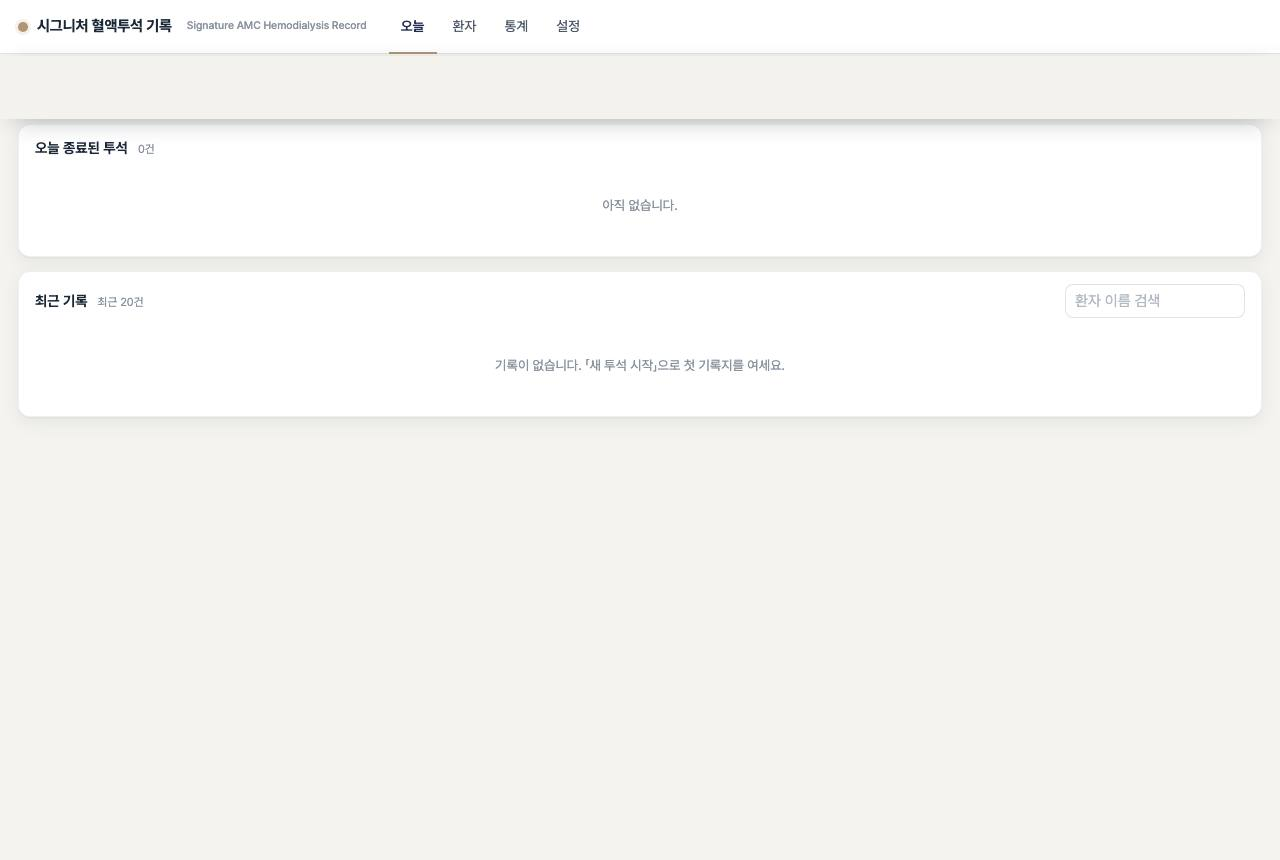
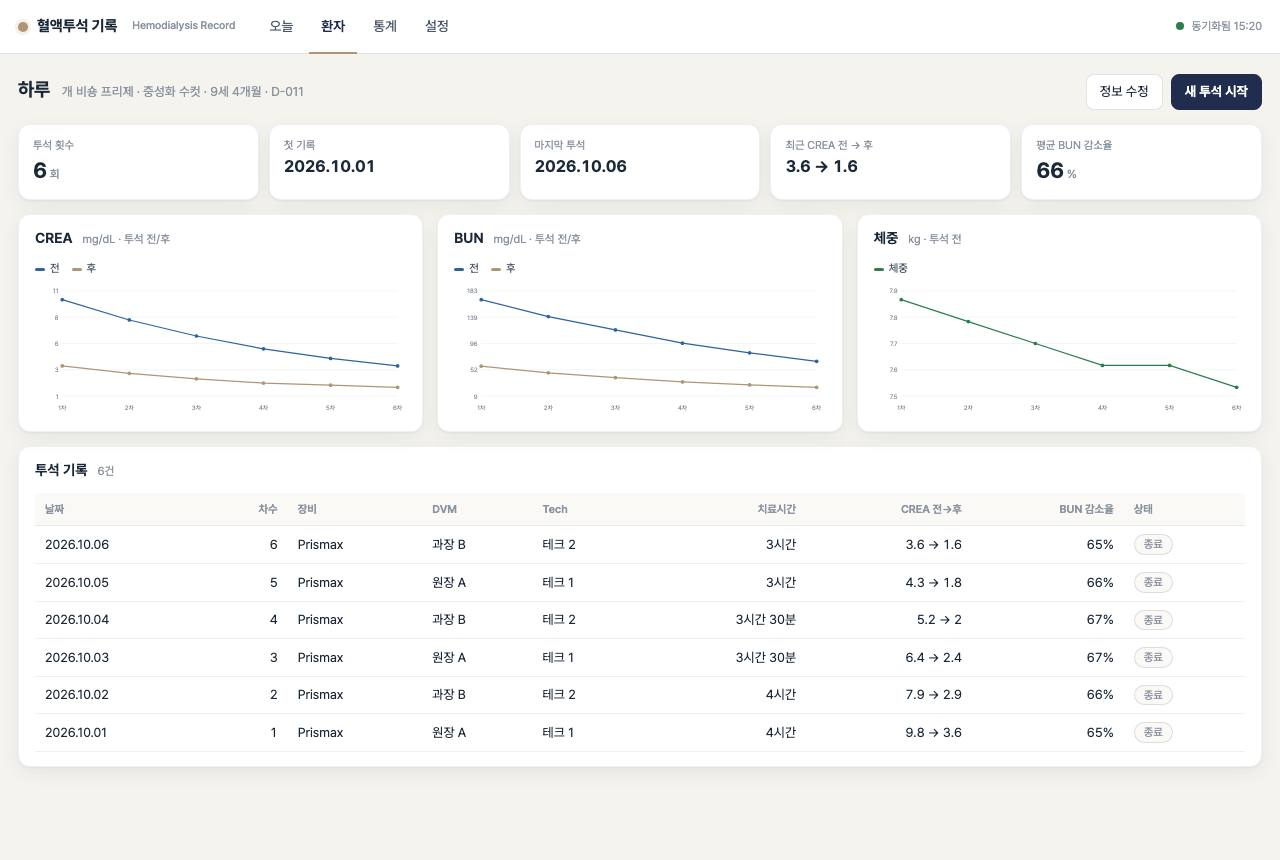
AI 교육 페이지: 프로그램 화면을 가상 데이터로 채운 실제 사용 모습으로 교체(18장)

diff --git a/public/ai-class.html b/public/ai-class.html
@@ -332,7 +332,7 @@ footer{padding-block:32px;font-size:.82rem;color:var(--ink-3)}
       <li>Claude · Claude Code</li><li>ChatGPT</li><li>Gemini</li><li>NotebookLM</li><li>Gamma</li><li>Genspark</li><li>Plaud</li>
     </ul>
     <div class="prog-list" id="plist"></div>
-    <p class="note">이름을 누르면 전과 후가 어떻게 달라졌는지, 실제 화면과 함께 볼 수 있습니다. 화면은 환자·직원 정보가 없는 빈 상태로 찍었고, 개인정보가 담긴 프로그램은 교육 당일 시연으로 보여 드립니다.</p>
+    <p class="note">이름을 누르면 전과 후가 어떻게 달라졌는지, 실제 화면과 함께 볼 수 있습니다. 화면 속 환자·직원·병원 이름과 수치는 모두 실제 사용 모습을 보여 드리기 위한 가상 데이터입니다.</p>
     <dialog id="pdlg" class="pdlg"><div class="pdlg-in"><div class="pdlg-h"><div><b id="pdlgT"></b><div id="pdlgD" class="pdlg-d"></div></div><button type="button" id="pdlgX" aria-label="닫기">닫기</button></div><img id="pdlgI" alt="" hidden><p id="pdlgN" class="pdlg-no" hidden>화면은 교육 당일 시연으로 보여 드립니다.</p></div></dialog>
   </div>
 </section>
@@ -517,7 +517,7 @@ footer{padding-block:32px;font-size:.82rem;color:var(--ink-3)}
 
 <script>
 (function(){
-  var G=[["진료", [{"n": "진료 녹음 차트", "t": "녹음을 고르면 SOAP 차트와 보호자 카톡 문안이 나옵니다", "i": "", "b": "", "a": "Plaud로 녹음한 진료를 SOAP 차트와 보호자에게 보낼 카카오톡 문안으로 정리합니다.", "p": ["녹음 전사문을 근거로 차트를 쓰므로 기억에 의존하지 않습니다", "보호자 안내가 매번 같은 형식으로 나갑니다"]}, {"n": "보호자 사전문진", "t": "진료실에 들어가기 전에 이미 환자를 압니다", "i": "/ai-class/shots/intake.jpg", "b": "", "a": "예약 안내 카톡에 링크 한 줄을 붙이면, 보호자가 전날 적어 둔 내용을 다음 날 진료 전에 읽습니다.", "p": ["진료 시간을 질문보다 설명과 상담에 쓸 수 있습니다", "보호자는 자기 답도 다시 볼 수 없고, 기기에도 남기지 않도록 만들었습니다", "병원 태블릿을 여러 보호자가 돌려 써도 앞사람 내용이 보이지 않습니다"]}, {"n": "마취 기록지", "t": "그래프는 저절로, 이상 수치는 붉게", "i": "/ai-class/shots/anes.jpg", "b": "종이 기록지에 활력징후를 적고 그래프를 손으로 그렸습니다.", "a": "휴대폰과 수술방 PC에서 같은 기록지를 함께 적고, 종이와 같은 기호로 그래프가 자동으로 그려집니다.", "p": ["MAP·SpO₂·ETCO₂·체온이 기준을 벗어나면 붉게 표시되고, 기록 간격을 넘기면 알려 줍니다", "용량(mg/kg)을 넣으면 투약량(mL)이 자동으로 계산됩니다", "끝나면 기록지를 사진 한 장으로 저장해 차트에 붙입니다"]}, {"n": "혈액투석 기록지", "t": "종이 기록지 32개 항목과 수분 수지를 실시간으로", "i": "/ai-class/shots/hd.jpg", "b": "종이 기록지에 시간대별 수치를 적었습니다.", "a": "종이 기록지의 32개 항목을 순서 그대로 옮긴 앱에서 여러 기기가 함께 기록합니다.", "p": ["이전 투석 값이 자동으로 채워지고 BUN·CREA 감소율이 계산됩니다", "들어간 수액과 기계가 뺀 양을 합쳐 수분 수지를 실시간으로 보여 줍니다", "다른 기기에서 고친 내용이 기록지 화면에서는 5초 안에 반영되고, 수의사 오더도 기록지 안에서 냅니다"]}, {"n": "수의 임상 계산기 29종", "t": "체중 한 번 입력으로 29가지 계산", "i": "/ai-class/shots/calc.jpg", "b": "", "a": "종과 체중을 한 번 넣으면 수액, 전해질, 약물, 수혈, 투석 등 29종 가운데 체중이 필요한 계산에 모두 반영됩니다.", "p": ["응급 상황에서 계산 실수를 줄입니다", "인터넷이 끊겨도 열립니다", "새로 온 수의사도 같은 기준으로 계산합니다"]}, {"n": "건강검진 결과서", "t": "차트와 사진을 올리면 결과서 초안이 나옵니다", "i": "", "b": "", "a": "진료차트 PDF와 엑스레이·초음파·치과 사진을 올리면 보호자용 결과서 초안을 만들고, 화면에서 고친 뒤 PDF로 뽑습니다.", "p": ["결과서를 처음부터 쓰지 않고 초안을 고치는 일로 바뀝니다", "보호자가 읽기 쉬운 같은 형식으로 나갑니다"]}]], ["운영", [{"n": "마약류 관리", "t": "NIMS 보고를 빠뜨리지 않습니다", "i": "/ai-class/shots/narcotics.jpg", "b": "카카오톡 단체방과 수기 장부로 관리했습니다.", "a": "사용 기록을 큰 버튼 몇 번으로 남기면(목표 30초) NIMS 보고 대기함이 자동으로 만들어집니다.", "p": ["보고를 완료할 때까지 대기함에서 사라지지 않고, 3일이 지나면 경고합니다", "한 병을 여러 환자가 나눠 쓴 잔량이 자동으로 계산됩니다", "누가 언제 무엇을 했는지 감사 기록이 남습니다"]}, {"n": "리셉 알림 보드", "t": "접수와 진료실 사이의 전달판", "i": "/ai-class/shots/recep.jpg", "b": "", "a": "1층 접수와 진료실이 내복약 요청과 전달 사항을 실시간 보드로 주고받습니다.", "p": ["새 알림을 소리로 읽어 줘 화면을 보고 있지 않아도 압니다", "처리한 항목은 체크하면 완료 구역으로 내려가 남은 일만 위에 보입니다"]}, {"n": "수혈 혈액 재고", "t": "유효기한 임박을 아침마다 알려 줍니다", "i": "/ai-class/shots/blood.jpg", "b": "종이와 구글 시트로 혈액 팩을 관리했습니다.", "a": "종·성분·혈액형별로 지금 쓸 수 있는 팩이 한 화면에 보입니다.", "p": ["채혈일만 넣으면 성분별 유효기한이 자동으로 계산됩니다", "임박하거나 지난 팩이 있으면 매일 아침 7시 원장 카카오톡으로 알려 줍니다", "어떤 팩을 어느 환자에게 썼는지 기록이 남습니다"]}, {"n": "테크니션 근무표", "t": "매달 손으로 짜던 근무표를 자동으로", "i": "/ai-class/shots/techshift.jpg", "b": "부장이 매달 구글 시트로 근무표를 손으로 짰습니다.", "a": "휴무 규칙으로 쉬는 날을 정하고, 남은 출근자를 오전·오후로 자동 배분합니다.", "p": ["규칙 위반을 자동으로 점검합니다", "연차·월차·병가 기록이 함께 관리됩니다", "여러 기기에서 같이 고쳐도 자동으로 합쳐집니다"]}, {"n": "의뢰환자 관리", "t": "의뢰 병원별 현황과 회신을 한눈에", "i": "", "b": "", "a": "의뢰 환자와 의뢰 병원, 회신 여부를 한곳에서 관리합니다.", "p": ["어느 병원에서 얼마나 의뢰가 오는지 보입니다", "회신을 놓친 환자를 바로 찾습니다"]}, {"n": "미용실 예약", "t": "어느 기기에서나 같은 예약장부", "i": "/ai-class/shots/grooming.jpg", "b": "종이 예약 차트에 적었습니다.", "a": "어느 컴퓨터·태블릿에서 열어도 같은 예약장부가 실시간으로 공유됩니다.", "p": ["이름과 연락처로 예약을 찾습니다", "하루 차트를 바로 인쇄합니다"]}, {"n": "스튜디오 예약", "t": "겹치는 예약은 저장되지 않습니다", "i": "/ai-class/shots/studio.jpg", "b": "", "a": "상주 직원이 없는 별도 공간을 예약제로 운영합니다.", "p": ["같은 시간에 예약이 겹치면 저장이 잠기고 누구와 겹치는지 알려 줍니다"]}]], ["경영·학술", [{"n": "원장실 경영대장", "t": "공동원장이 같은 숫자를 봅니다", "i": "", "b": "", "a": "매출, 객단가, 내원, 손익을 공동원장들이 한 화면에서 봅니다.", "p": ["휴대폰에 설치해 인터넷이 끊겨도 엽니다"]}, {"n": "인재관리", "t": "누구를 언제 챙길지 먼저 알려 줍니다", "i": "/ai-class/shots/people.jpg", "b": "", "a": "직원의 계약, 연봉, 원온원 면담, 수시 기록을 한곳에 모읍니다.", "p": ["면담이 밀린 사람, 계약 만료가 가까운 사람, 연봉을 오래 그대로 둔 사람을 먼저 보여 줍니다", "면담 전에 지난 면담 요약과 남은 약속, 질문 세 개를 꺼내 줍니다"]}, {"n": "수의학 데일리 브리핑", "t": "매일 새벽 관심 분야 논문이 카톡으로", "i": "/ai-class/shots/briefing.jpg", "b": "", "a": "매일 새벽 PubMed에서 신규 논문을 찾아 요약하고 카카오톡으로 보냅니다.", "p": ["인스타그램 카드와 네이버 블로그 초안까지 함께 만들어집니다", "논문 인용과 수치는 게시 전에 다시 확인합니다"]}, {"n": "논문 번역기", "t": "한국어로 쓰인 논문처럼 읽습니다", "i": "/ai-class/shots/papers.jpg", "b": "", "a": "영어 논문 PDF를 열면 원문 옆에 같은 지면의 한국어 논문이 나란히 열립니다.", "p": ["그림·표·배치는 원본 그대로 두고 글만 바꿉니다", "시간이 없을 때는 핵심 요약, 주요 수치, 임상 적용 포인트만 정리합니다"]}, {"n": "한국동물병원협회 회원 앱", "t": "회원 약 4,000명을 위해 만든 협회 앱", "i": "", "b": "", "a": "협회 홈페이지 계정으로 로그인해 소식, 교육 일정, 양식, 계산기를 휴대폰에서 봅니다.", "p": ["교육 신청 마감 3일 전부터 알림이 갑니다", "협회 양식 265종을 검색해 내려받습니다"]}, {"n": "AAHA CON 참관 수첩", "t": "해외 학회를 한글로 준비합니다", "i": "/ai-class/shots/aaha.jpg", "b": "", "a": "학회 세션 118건을 한글 제목과 요약으로 정리하고 시간대별로 추천합니다.", "p": ["현장에서 적은 메모로 운영위원회 일일 보고문을 만듭니다"]}]], ["마케팅·개인", [{"n": "이태호 수의사 홈페이지", "t": "직접 만들고 매주 새 소식을 반영합니다", "i": "/ai-class/shots/home.jpg", "b": "", "a": "의료진 개인 홈페이지를 직접 만들었습니다.", "p": ["보도, 논문, 유튜브 영상을 매주 확인해 반영합니다", "네이버·구글 검색 등록과 병원 정보 구조화 데이터를 넣었습니다"]}, {"n": "동료 수의사 홈페이지 1", "t": "같은 방식으로 만든 동료 원장 홈페이지", "i": "", "b": "", "a": "동료 원장님의 개인 홈페이지입니다.", "p": ["매주 같은 방식으로 새 소식을 반영합니다"]}, {"n": "동료 수의사 홈페이지 2", "t": "같은 방식으로 만든 동료 원장 홈페이지", "i": "", "b": "", "a": "동료 원장님의 개인 홈페이지입니다.", "p": ["매주 같은 방식으로 새 소식을 반영합니다"]}, {"n": "케이스 카드 제작기", "t": "수술 증례를 카드뉴스로", "i": "/ai-class/shots/cases.jpg", "b": "", "a": "사진과 진료 메모를 넣으면 카드 문구 초안을 만들고 인스타그램 규격 카드를 뽑습니다.", "p": ["게시글 문구까지 함께 나옵니다", "환자 이름·차트번호 칸을 아예 두지 않고, 영상 사진에 새겨진 이름은 자동으로 가립니다"]}, {"n": "유튜브 채널 기획실", "t": "감이 아니라 데이터로 기획합니다", "i": "", "b": "", "a": "채널의 실제 조회수 데이터로 어떤 주제와 제목이 반응했는지 봅니다.", "p": ["기획부터 게시까지 보드에서 함께 관리합니다", "목표 구독자까지 지금 속도로 언제 도달하는지 보여 줍니다"]}, {"n": "개인 건강 기록", "t": "원장 개인용 건강 기록", "i": "", "b": "", "a": "원장 개인의 하루 건강 기록을 남기는 앱입니다.", "p": []}]]];
+  var G=[["진료", [{"n": "진료 녹음 차트", "t": "녹음을 고르면 SOAP 차트와 보호자 카톡 문안이 나옵니다", "i": "", "b": "", "a": "Plaud로 녹음한 진료를 SOAP 차트와 보호자에게 보낼 카카오톡 문안으로 정리합니다.", "p": ["녹음 전사문을 근거로 차트를 쓰므로 기억에 의존하지 않습니다", "보호자 안내가 매번 같은 형식으로 나갑니다"]}, {"n": "보호자 사전문진", "t": "진료실에 들어가기 전에 이미 환자를 압니다", "i": "/ai-class/shots/intake.jpg?v=2", "b": "", "a": "예약 안내 카톡에 링크 한 줄을 붙이면, 보호자가 전날 적어 둔 내용을 다음 날 진료 전에 읽습니다.", "p": ["진료 시간을 질문보다 설명과 상담에 쓸 수 있습니다", "보호자는 자기 답도 다시 볼 수 없고, 기기에도 남기지 않도록 만들었습니다", "병원 태블릿을 여러 보호자가 돌려 써도 앞사람 내용이 보이지 않습니다"]}, {"n": "마취 기록지", "t": "그래프는 저절로, 이상 수치는 붉게", "i": "/ai-class/shots/anes.jpg?v=2", "b": "종이 기록지에 활력징후를 적고 그래프를 손으로 그렸습니다.", "a": "휴대폰과 수술방 PC에서 같은 기록지를 함께 적고, 종이와 같은 기호로 그래프가 자동으로 그려집니다.", "p": ["MAP·SpO₂·ETCO₂·체온이 기준을 벗어나면 붉게 표시되고, 기록 간격을 넘기면 알려 줍니다", "용량(mg/kg)을 넣으면 투약량(mL)이 자동으로 계산됩니다", "끝나면 기록지를 사진 한 장으로 저장해 차트에 붙입니다"]}, {"n": "혈액투석 기록지", "t": "종이 기록지 32개 항목과 수분 수지를 실시간으로", "i": "/ai-class/shots/hd.jpg?v=2", "b": "종이 기록지에 시간대별 수치를 적었습니다.", "a": "종이 기록지의 32개 항목을 순서 그대로 옮긴 앱에서 여러 기기가 함께 기록합니다.", "p": ["이전 투석 값이 자동으로 채워지고 BUN·CREA 감소율이 계산됩니다", "들어간 수액과 기계가 뺀 양을 합쳐 수분 수지를 실시간으로 보여 줍니다", "다른 기기에서 고친 내용이 기록지 화면에서는 5초 안에 반영되고, 수의사 오더도 기록지 안에서 냅니다"]}, {"n": "수의 임상 계산기 29종", "t": "체중 한 번 입력으로 29가지 계산", "i": "/ai-class/shots/calc.jpg?v=2", "b": "", "a": "종과 체중을 한 번 넣으면 수액, 전해질, 약물, 수혈, 투석 등 29종 가운데 체중이 필요한 계산에 모두 반영됩니다.", "p": ["응급 상황에서 계산 실수를 줄입니다", "인터넷이 끊겨도 열립니다", "새로 온 수의사도 같은 기준으로 계산합니다"]}, {"n": "건강검진 결과서", "t": "차트와 사진을 올리면 결과서 초안이 나옵니다", "i": "", "b": "", "a": "진료차트 PDF와 엑스레이·초음파·치과 사진을 올리면 보호자용 결과서 초안을 만들고, 화면에서 고친 뒤 PDF로 뽑습니다.", "p": ["결과서를 처음부터 쓰지 않고 초안을 고치는 일로 바뀝니다", "보호자가 읽기 쉬운 같은 형식으로 나갑니다"]}]], ["운영", [{"n": "마약류 관리", "t": "NIMS 보고를 빠뜨리지 않습니다", "i": "/ai-class/shots/narcotics.jpg?v=2", "b": "카카오톡 단체방과 수기 장부로 관리했습니다.", "a": "사용 기록을 큰 버튼 몇 번으로 남기면(목표 30초) NIMS 보고 대기함이 자동으로 만들어집니다.", "p": ["보고를 완료할 때까지 대기함에서 사라지지 않고, 3일이 지나면 경고합니다", "한 병을 여러 환자가 나눠 쓴 잔량이 자동으로 계산됩니다", "누가 언제 무엇을 했는지 감사 기록이 남습니다"]}, {"n": "리셉 알림 보드", "t": "접수와 진료실 사이의 전달판", "i": "/ai-class/shots/recep.jpg?v=2", "b": "", "a": "1층 접수와 진료실이 내복약 요청과 전달 사항을 실시간 보드로 주고받습니다.", "p": ["새 알림을 소리로 읽어 줘 화면을 보고 있지 않아도 압니다", "처리한 항목은 체크하면 완료 구역으로 내려가 남은 일만 위에 보입니다"]}, {"n": "수혈 혈액 재고", "t": "유효기한 임박을 아침마다 알려 줍니다", "i": "/ai-class/shots/blood.jpg?v=2", "b": "종이와 구글 시트로 혈액 팩을 관리했습니다.", "a": "종·성분·혈액형별로 지금 쓸 수 있는 팩이 한 화면에 보입니다.", "p": ["채혈일만 넣으면 성분별 유효기한이 자동으로 계산됩니다", "임박하거나 지난 팩이 있으면 매일 아침 7시 원장 카카오톡으로 알려 줍니다", "어떤 팩을 어느 환자에게 썼는지 기록이 남습니다"]}, {"n": "테크니션 근무표", "t": "매달 손으로 짜던 근무표를 자동으로", "i": "/ai-class/shots/techshift.jpg?v=2", "b": "부장이 매달 구글 시트로 근무표를 손으로 짰습니다.", "a": "휴무 규칙으로 쉬는 날을 정하고, 남은 출근자를 오전·오후로 자동 배분합니다.", "p": ["규칙 위반을 자동으로 점검합니다", "연차·월차·병가 기록이 함께 관리됩니다", "여러 기기에서 같이 고쳐도 자동으로 합쳐집니다"]}, {"n": "의뢰환자 관리", "t": "의뢰 병원별 현황과 회신을 한눈에", "i": "/ai-class/shots/referral.jpg?v=2", "b": "", "a": "의뢰 환자와 의뢰 병원, 회신 여부를 한곳에서 관리합니다.", "p": ["어느 병원에서 얼마나 의뢰가 오는지 보입니다", "회신을 놓친 환자를 바로 찾습니다"]}, {"n": "미용실 예약", "t": "어느 기기에서나 같은 예약장부", "i": "/ai-class/shots/grooming.jpg?v=2", "b": "종이 예약 차트에 적었습니다.", "a": "어느 컴퓨터·태블릿에서 열어도 같은 예약장부가 실시간으로 공유됩니다.", "p": ["이름과 연락처로 예약을 찾습니다", "하루 차트를 바로 인쇄합니다"]}, {"n": "스튜디오 예약", "t": "겹치는 예약은 저장되지 않습니다", "i": "/ai-class/shots/studio.jpg?v=2", "b": "", "a": "상주 직원이 없는 별도 공간을 예약제로 운영합니다.", "p": ["같은 시간에 예약이 겹치면 저장이 잠기고 누구와 겹치는지 알려 줍니다"]}]], ["경영·학술", [{"n": "원장실 경영대장", "t": "공동원장이 같은 숫자를 봅니다", "i": "/ai-class/shots/ledger.jpg?v=2", "b": "", "a": "매출, 객단가, 내원, 손익을 공동원장들이 한 화면에서 봅니다.", "p": ["휴대폰에 설치해 인터넷이 끊겨도 엽니다"]}, {"n": "인재관리", "t": "누구를 언제 챙길지 먼저 알려 줍니다", "i": "/ai-class/shots/people.jpg?v=2", "b": "", "a": "직원의 계약, 연봉, 원온원 면담, 수시 기록을 한곳에 모읍니다.", "p": ["면담이 밀린 사람, 계약 만료가 가까운 사람, 연봉을 오래 그대로 둔 사람을 먼저 보여 줍니다", "면담 전에 지난 면담 요약과 남은 약속, 질문 세 개를 꺼내 줍니다"]}, {"n": "수의학 데일리 브리핑", "t": "매일 새벽 관심 분야 논문이 카톡으로", "i": "/ai-class/shots/briefing.jpg?v=2", "b": "", "a": "매일 새벽 PubMed에서 신규 논문을 찾아 요약하고 카카오톡으로 보냅니다.", "p": ["인스타그램 카드와 네이버 블로그 초안까지 함께 만들어집니다", "논문 인용과 수치는 게시 전에 다시 확인합니다"]}, {"n": "논문 번역기", "t": "한국어로 쓰인 논문처럼 읽습니다", "i": "/ai-class/shots/papers.jpg?v=2", "b": "", "a": "영어 논문 PDF를 열면 원문 옆에 같은 지면의 한국어 논문이 나란히 열립니다.", "p": ["그림·표·배치는 원본 그대로 두고 글만 바꿉니다", "시간이 없을 때는 핵심 요약, 주요 수치, 임상 적용 포인트만 정리합니다"]}, {"n": "한국동물병원협회 회원 앱", "t": "회원 약 4,000명을 위해 만든 협회 앱", "i": "", "b": "", "a": "협회 홈페이지 계정으로 로그인해 소식, 교육 일정, 양식, 계산기를 휴대폰에서 봅니다.", "p": ["교육 신청 마감 3일 전부터 알림이 갑니다", "협회 양식 265종을 검색해 내려받습니다"]}, {"n": "AAHA CON 참관 수첩", "t": "해외 학회를 한글로 준비합니다", "i": "/ai-class/shots/aaha.jpg?v=2", "b": "", "a": "학회 세션 118건을 한글 제목과 요약으로 정리하고 시간대별로 추천합니다.", "p": ["현장에서 적은 메모로 운영위원회 일일 보고문을 만듭니다"]}]], ["마케팅·개인", [{"n": "이태호 수의사 홈페이지", "t": "직접 만들고 매주 새 소식을 반영합니다", "i": "/ai-class/shots/home.jpg?v=2", "b": "", "a": "의료진 개인 홈페이지를 직접 만들었습니다.", "p": ["보도, 논문, 유튜브 영상을 매주 확인해 반영합니다", "네이버·구글 검색 등록과 병원 정보 구조화 데이터를 넣었습니다"]}, {"n": "동료 수의사 홈페이지 1", "t": "같은 방식으로 만든 동료 원장 홈페이지", "i": "", "b": "", "a": "동료 원장님의 개인 홈페이지입니다.", "p": ["매주 같은 방식으로 새 소식을 반영합니다"]}, {"n": "동료 수의사 홈페이지 2", "t": "같은 방식으로 만든 동료 원장 홈페이지", "i": "", "b": "", "a": "동료 원장님의 개인 홈페이지입니다.", "p": ["매주 같은 방식으로 새 소식을 반영합니다"]}, {"n": "케이스 카드 제작기", "t": "수술 증례를 카드뉴스로", "i": "/ai-class/shots/cases.jpg?v=2", "b": "", "a": "사진과 진료 메모를 넣으면 카드 문구 초안을 만들고 인스타그램 규격 카드를 뽑습니다.", "p": ["게시글 문구까지 함께 나옵니다", "환자 이름·차트번호 칸을 아예 두지 않고, 영상 사진에 새겨진 이름은 자동으로 가립니다"]}, {"n": "유튜브 채널 기획실", "t": "감이 아니라 데이터로 기획합니다", "i": "", "b": "", "a": "채널의 실제 조회수 데이터로 어떤 주제와 제목이 반응했는지 봅니다.", "p": ["기획부터 게시까지 보드에서 함께 관리합니다", "목표 구독자까지 지금 속도로 언제 도달하는지 보여 줍니다"]}, {"n": "개인 건강 기록", "t": "원장 개인용 건강 기록", "i": "", "b": "", "a": "원장 개인의 하루 건강 기록을 남기는 앱입니다.", "p": []}]]];
   var box=document.getElementById("plist");
   box.innerHTML=G.map(function(g,gi){return '<div><h3>'+g[0]+' '+g[1].length+'</h3><ul>'+g[1].map(function(it,ii){return '<li><button type="button" class="pbtn" data-g="'+gi+'" data-i="'+ii+'"><em>'+it.n+'<small>'+it.t+'</small></em><span>'+(it.i?'화면 보기':'자세히')+'</span></button></li>'}).join("")+'</ul></div>'}).join("");
   var dlg=document.getElementById("pdlg");
